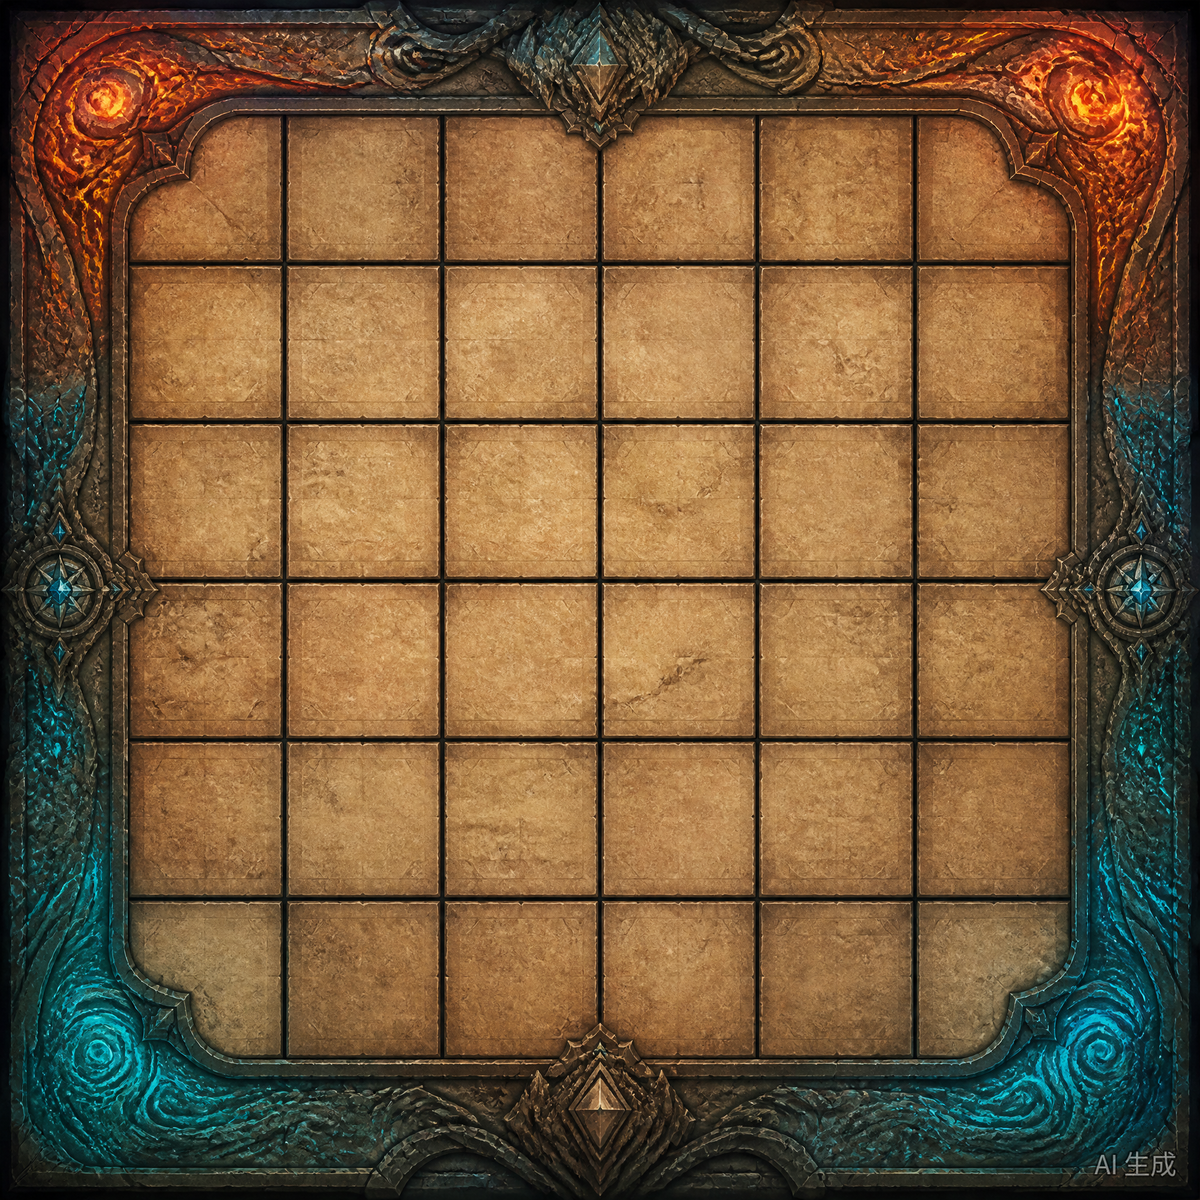
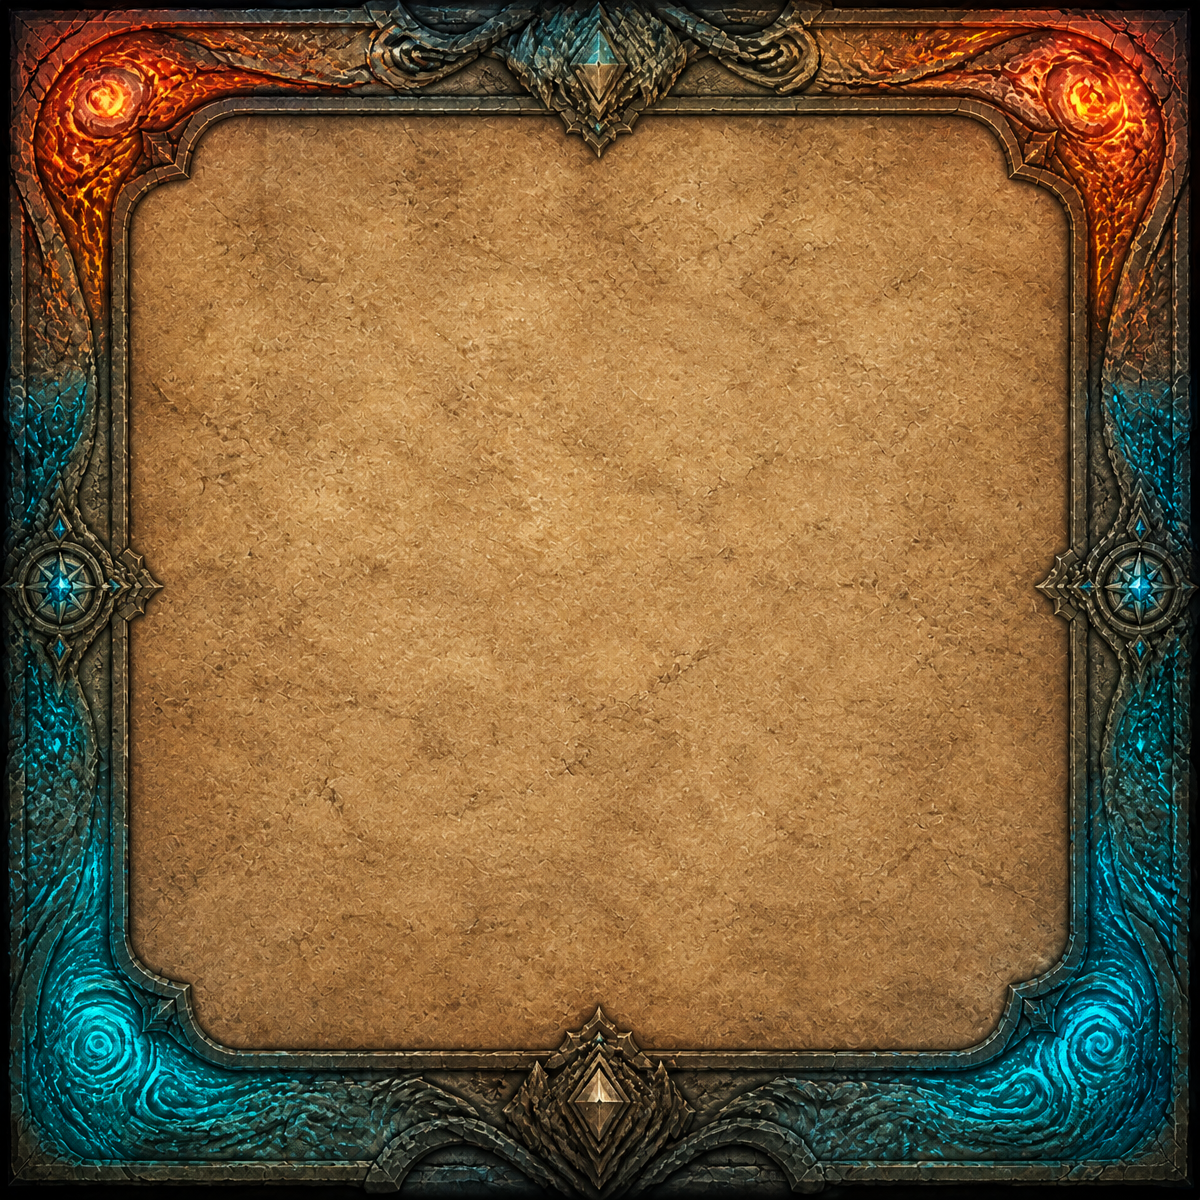
v1.0.0

diff --git a/README.md b/README.md
@@ -10,11 +10,9 @@
 
 <img src="assets/images/og-cover.png" alt="怪兽推推战 · 推开对手，进化怪兽，三连制胜" width="100%">
 
-[▶ 在线试玩](https://YOUR-USERNAME.github.io/monster-push-battle/)　·　[游戏规则](#游戏规则)　·　[本地运行](#本地运行)　·　[项目结构](#项目结构)
+[▶ 在线试玩](https://taby-ding.github.io/monster-push-battle/)　·　[游戏规则](#游戏规则)　·　[本地运行](#本地运行)　·　[项目结构](#项目结构)
 
 </div>
-
-> 把上面的 `YOUR-USERNAME` 换成你的 GitHub 用户名，部署完成后链接即可使用。
 
 ---
 
